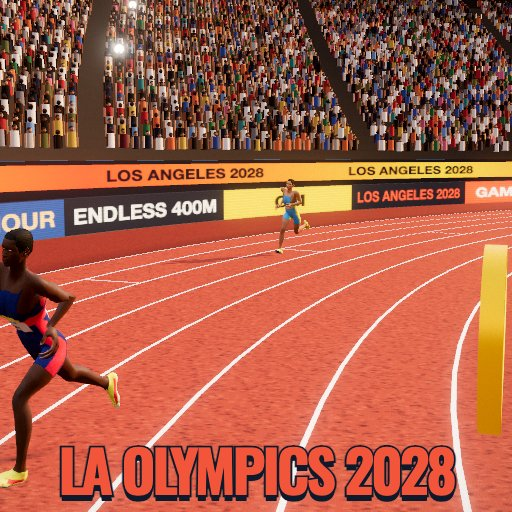
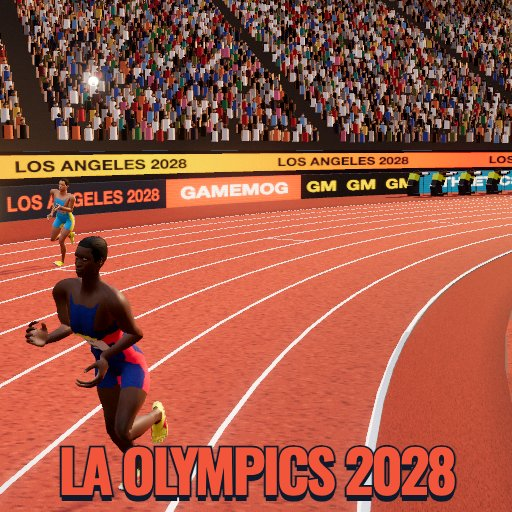
Bigger 16:9 tiles; Classic first in the nav and off the homepage
- Tiles: 16:9, four across a desktop row (about 320px, from 150px
  squares the owner found "way too small"). Worlds show their wide key
  art and Classic races their wide drawn cover, whole: the square crop
  cut LA's runner in half. One treatment for every tile; about 1.3 tiles
  across a phone.
- Codex had put a Classic rail back on the homepage; it is removed again.
  Classic is the first item in the nav.
- LA Olympics key art re-shot after the runtime's eye and shoulder fixes:
  the runner faces the camera and no coin blocks the view.

diff --git a/app/globals.css b/app/globals.css
@@ -151,28 +151,31 @@ button.tag:hover{background:var(--line)}
    ends, and a 1440px-wide grey line under every section reads as a divider
    nobody asked for. */
 .railwrap{position:relative;padding:0 30px}
-.rail{display:flex;gap:14px;overflow-x:auto;scroll-snap-type:x proximity;scrollbar-width:none}
+.rail{display:flex;gap:16px;overflow-x:auto;scroll-snap-type:x proximity;scrollbar-width:none}
 .rail::-webkit-scrollbar{display:none}
 .railbtn{
-  position:absolute;top:60px;z-index:3;width:30px;height:30px;
+  position:absolute;top:calc(28% - 15px);z-index:3;width:30px;height:30px;
   color:var(--ink);display:flex;align-items:center;justify-content:center;
 }
 .railbtn.l{left:0}
 .railbtn.r{right:0}
-.gridw{display:grid;gap:14px;grid-template-columns:repeat(auto-fill,150px)}
+.gridw{display:grid;gap:4px 16px;grid-template-columns:repeat(auto-fill,minmax(280px,1fr))}
+.gridw .tl{width:auto}
 
 /* ------------------------------------------------------------------ tile -- */
-/* Key art is authored for the 150px square Roblox catalogue rhythm. */
-.tl{display:block;width:150px;min-height:240px;flex:0 0 150px;scroll-snap-align:start}
-.tl .th{position:relative;width:150px;height:150px;border-radius:var(--r);overflow:hidden;background:var(--line)}
+/* 16:9, four across a desktop row. The owner found 150px squares "way too
+   small" (23 Sep), and every world's key art is composed wide: the square
+   crop cut its runner in half. One treatment for every tile. */
+.tl{display:block;width:calc((100% - 48px) / 4);flex:0 0 calc((100% - 48px) / 4);scroll-snap-align:start;margin-bottom:6px}
+.tl .th{position:relative;width:100%;aspect-ratio:16/9;border-radius:var(--r);overflow:hidden;background:var(--line)}
 .tl .th svg{width:100%;height:100%}
 .tl .th img{width:100%;height:100%;object-fit:cover;display:block}
 .tl .bd{position:absolute;top:6px;left:6px;height:18px;padding:0 6px;display:inline-flex;align-items:center;
   border-radius:4px;font-size:10px;font-weight:700;color:#fff;background:var(--hot)}
 .tl .bd.blue{background:var(--blue)}
 .tl .bd.ink{background:var(--dark)}
-.tl .nm{margin:6px 0 2px;font-size:16px;font-weight:700;line-height:22.4px;height:44.8px;
-  display:-webkit-box;-webkit-box-orient:vertical;-webkit-line-clamp:2;overflow:hidden}
+.tl .nm{margin:8px 0 2px;font-size:16px;font-weight:700;line-height:22.4px;height:22.4px;
+  white-space:nowrap;overflow:hidden;text-overflow:ellipsis}
 .tl .mt{display:flex;align-items:center;gap:10px;font-size:12px;font-weight:500;line-height:18px;color:var(--ink-2)}
 .tl .mt span{display:flex;align-items:center;gap:4px}
 
@@ -208,8 +211,8 @@ button.tag:hover{background:var(--line)}
    a flat block at the exact size and shape of what is arriving. */
 .sk{background:var(--line);border-radius:var(--r)}
 .sk-line{height:12px;border-radius:4px;background:var(--line)}
-.sk-tile{width:150px;flex:0 0 150px}
-.sk-tile .th{width:150px;height:150px;border-radius:var(--r);background:var(--line)}
+.sk-tile{width:calc((100% - 48px) / 4);flex:0 0 calc((100% - 48px) / 4)}
+.sk-tile .th{width:100%;aspect-ratio:16/9;border-radius:var(--r);background:var(--line)}
 .sk-tile .a{margin-top:7px;width:100%}
 .sk-tile .b{margin-top:8px;width:62%}
 .sk-card{display:grid;gap:10px}
@@ -341,10 +344,10 @@ table.bd td:nth-child(2){font-weight:500}
   .railwrap{padding:0}
   .rail{gap:12px}
   .railbtn{display:none}
-  .gridw{grid-template-columns:repeat(auto-fill,88px);gap:12px}
-  .tl,.sk-tile{width:88px;min-height:184px;flex-basis:88px}
-  .tl .th,.sk-tile .th{width:88px;height:88px}
-  .tl .nm{font-size:14px;line-height:19.6px;height:39.2px}
+  .gridw{grid-template-columns:repeat(auto-fill,minmax(160px,1fr));gap:4px 12px}
+  .tl,.sk-tile{width:74%;flex-basis:74%}
+  .gridw .tl{width:auto}
+  .tl .nm{font-size:15px}
   .tl .mt{gap:7px}
   .tl .mt span:nth-child(n+3){display:none}
 }

diff --git a/app/tile.tsx b/app/tile.tsx
@@ -10,13 +10,15 @@ const NEW_MS = 1000 * 60 * 60 * 36;
 export const short = (n: number) => (n >= 1e6 ? `${(n / 1e6).toFixed(1)}M` : n >= 1e3 ? `${(n / 1e3).toFixed(1)}K` : String(n));
 
 /**
- * A 150px square key-art thumbnail, a two-line 16/700 name and one compact
- * metadata row. Every tile is identical in size and rhythm.
+ * A 16:9 key-art thumbnail, four across a desktop row, a 16/700 name and one
+ * compact metadata row. Every tile is identical in size and rhythm, and every
+ * one shows its game's art whole: worlds their wide key art, Classic races
+ * their wide drawn cover.
  */
 export function Tile({ g, i = 0, best, stats }: { g: GameRow; i?: number; best?: number; stats?: TileStats }) {
   const isNew = Date.now() - g.created_at < NEW_MS;
-  // Runtime worlds use generated square key art. Classic covers are drawn
-  // from their specs at the same square shape.
+  // Runtime worlds use their generated wide key art; Classic covers are
+  // drawn from their specs at the same shape.
   const custom = g.format === 'custom' || g.format === 'world';
   const spec = custom ? null : (JSON.parse(g.spec) as WorldSpec);
   const votes = (stats?.up ?? 0) + (stats?.down ?? 0);
@@ -26,8 +28,8 @@ export function Tile({ g, i = 0, best, stats }: { g: GameRow; i?: number; best?:
       <div className="th">
         {custom
           // eslint-disable-next-line @next/next/no-img-element
-          ? <img src={`/g/${g.slug}/cover?shape=square`} alt="" loading="lazy" />
-          : <Cover spec={spec!} seed={i} />}
+          ? <img src={`/g/${g.slug}/cover`} alt="" loading="lazy" />
+          : <Cover spec={spec!} seed={i} wide />}
         {g.parent_id ? <span className="bd ink">MOG</span>
           : isNew ? <span className="bd blue">NEW</span> : null}
       </div>

diff --git a/app/page.tsx b/app/page.tsx
@@ -99,11 +99,10 @@ export default async function Home({ searchParams }: { searchParams: Promise<{ g
   }
 
   const stats = tileStats();
-  // the race format from before the GameMog Runtime lives on /classic: it
-  // does not play by the platform's rules, so it is not ranked with worlds
-  // that do
+  // the race format from before the GameMog Runtime lives on /classic, in
+  // the nav, and not on the homepage (the owner's call): it does not play by
+  // the platform's rules, so it is not ranked with worlds that do
   const worlds = games.filter((g) => g.format !== 'race');
-  const classic = games.filter((g) => g.format === 'race');
   const hero = worlds.find((g) => g.slug === HERO) ?? worlds.find((g) => g.format === 'world') ?? worlds[0] ?? games[0];
   const genres = [...new Set(worlds.map(genreOf))].sort();
   const requested = (await searchParams).genre;
@@ -136,9 +135,6 @@ export default async function Home({ searchParams }: { searchParams: Promise<{ g
         </div>
         {rails.map((rail, i) => <Rail key={rail.sort} sort={rail.sort} games={rail.games} best={best} stats={stats} seed={i * 40} />)}
         {!rails.length && <div className="empty"><h2>No full chart for this genre yet</h2><p>Charts appear when at least four worlds qualify.</p></div>}
-
-        <Rail sort="classic" games={sortGames(classic, 'classic', stats).slice(0, 16)} best={best} stats={stats} seed={400}
-          caption="The first GameMog races, from before the GameMog Runtime: three laps, run to the beat. They keep their own rules." />
 
       </main>
       <SiteFooter />

diff --git a/scripts/design-check.ts b/scripts/design-check.ts
@@ -99,9 +99,8 @@ export function runDesignChecks(ok: Ok) {
     .map((v) => parseFloat(v))
     .filter((v) => v > 8);
   ok('no soft radii between 9px and a full pill', radii.length === 0, radii.join(', '));
-  // Runtime worlds now generate dedicated square key art, so tiles return to
-  // the measured 150px catalogue rhythm instead of cropping gameplay frames.
-  ok('tiles are square at 150px', /\.tl\{[^}]*width:150px/.test(css) && /\.tl \.th\{[^}]*width:150px;height:150px/.test(css));
+  // the owner found 150px squares "way too small" (23 Sep); key art is wide
+  ok('tiles are 16:9, four across a desktop row', /\.tl\{[^}]*width:calc\(\(100% - 48px\) \/ 4\)/.test(css) && /\.tl \.th\{[^}]*aspect-ratio:16\/9/.test(css));
   ok('tile name is the measured 16px/700 at 22.4px', /\.tl \.nm\{[^}]*font-size:16px;font-weight:700;line-height:22\.4px/.test(css));
   ok('page is not pure white', /--page:#F7F7F8/.test(css) && !/--page:#FFFFFF/i.test(css));
 

diff --git a/app/header.tsx b/app/header.tsx
@@ -5,8 +5,8 @@ import Link from 'next/link';
  * row and place navigation in a 34px row underneath.
  */
 const NAV = [
-  { label: 'Charts', href: '/charts/trending' },
   { label: 'Classic', href: '/classic' },
+  { label: 'Charts', href: '/charts/trending' },
   { label: 'Create', href: '/create' },
   { label: 'Library', href: '/library' },
   { label: 'Mogs', href: '/charts/new-mogs' },
